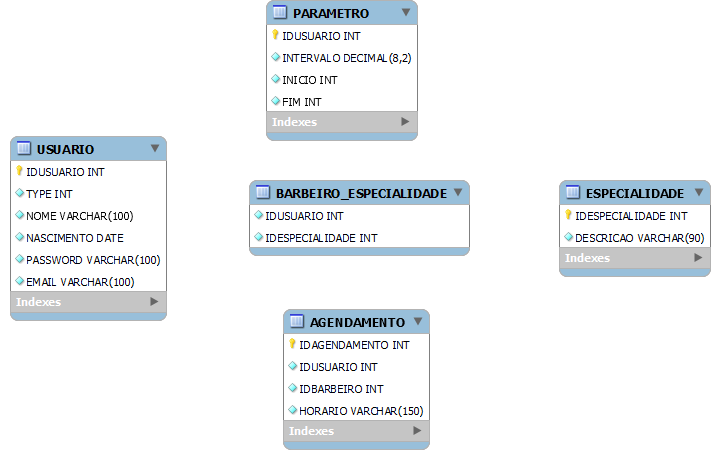
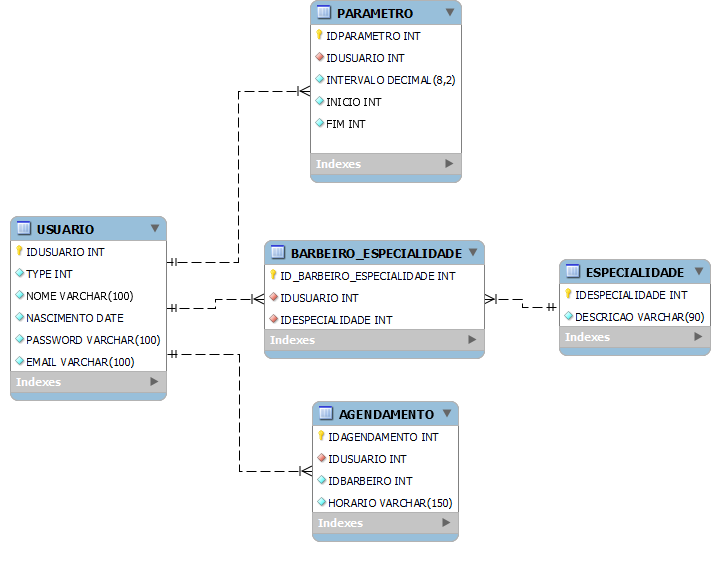
Criação de model's e ajustes na modelagem do banco de dados

diff --git a/ClickBeard/myapp/app/Models/Barbeiroespecialidade.php b/ClickBeard/myapp/app/Models/Barbeiroespecialidade.php
@@ -1,0 +1,14 @@
+<?php 
+namespace app\Models;
+
+use CodeIgniter\Model;
+
+
+class Barbeiroespecialidade extends Model 
+{
+     protected $table      = 'BARBEIRO_ESPECIALIDADE';
+     protected $primaryKey = 'ID_BARBEIRO_ESPECIALIDADE';
+     protected $allowedFields= ['ID_BARBEIRO_ESPECIALIDADE','IDUSUARIO','IDESPECIALIDADE'];
+     protected $returnType = 'object';
+
+}

diff --git a/ClickBeard/myapp/app/Models/Agendamento.php b/ClickBeard/myapp/app/Models/Agendamento.php
@@ -1,0 +1,14 @@
+<?php 
+namespace app\Models;
+
+use CodeIgniter\Model;
+
+
+class Agendamento extends Model 
+{
+     protected $table      = 'AGENDAMENTO';
+     protected $primaryKey = 'IDAGENDAMENTO';
+     protected $allowedFields= ['IDAGENDAMENTO','IDUSUARIO','IDBARBEIRO','HORARIO'];
+     protected $returnType = 'object';
+
+}

diff --git a/ClickBeard/myapp/app/Models/Parametro.php b/ClickBeard/myapp/app/Models/Parametro.php
@@ -1,0 +1,14 @@
+<?php 
+namespace app\Models;
+
+use CodeIgniter\Model;
+
+
+class Parametro extends Model 
+{
+     protected $table      = 'PARAMETRO';
+     protected $primaryKey = 'IDPARAMETRO';
+     protected $allowedFields= ['IDPARAMETRO','IDUSUARIO','INTERVALO','INICIO','FIM'];
+     protected $returnType = 'object';
+
+}

diff --git a/ClickBeard/myapp/app/Models/Usuario.php b/ClickBeard/myapp/app/Models/Usuario.php
@@ -1,0 +1,14 @@
+<?php 
+namespace app\Models;
+
+use CodeIgniter\Model;
+
+
+class Usuario extends Model
+{
+     protected $table      = 'USUARIO';
+     protected $primaryKey = 'IDUSUARIO';
+     protected $allowedFields= ['IDUSUARIO','TYPE',"NOME","NASCIMENTO","PASSWORD","EMAIL"];
+     protected $returnType = 'object';
+
+}

diff --git a/ClickBeard/myapp/app/Models/Especialidade.php b/ClickBeard/myapp/app/Models/Especialidade.php
@@ -1,0 +1,14 @@
+<?php 
+namespace app\Models;
+
+use CodeIgniter\Model;
+
+
+class Especialidade extends Model 
+{
+     protected $table      = 'ESPECIALIDADE';
+     protected $primaryKey = 'IDESPECIALIDADE';
+     protected $allowedFields= ['IDESPECIALIDADE','DESCRICAO'];
+     protected $returnType = 'object';
+
+}

diff --git a/ClickBeard/myapp/app/Models/Teste.php b/ClickBeard/myapp/app/Models/Teste.php
@@ -4,7 +4,8 @@ namespace app\Models;
 use CodeIgniter\Model;
 
 
-class Teste extends Model {
+class Teste extends Model
+{
      protected $table      = 'ESPECIALIDADE';
      protected $primaryKey = 'ID';
      protected $allowedFields= ['ID','DESCRICAO'];
